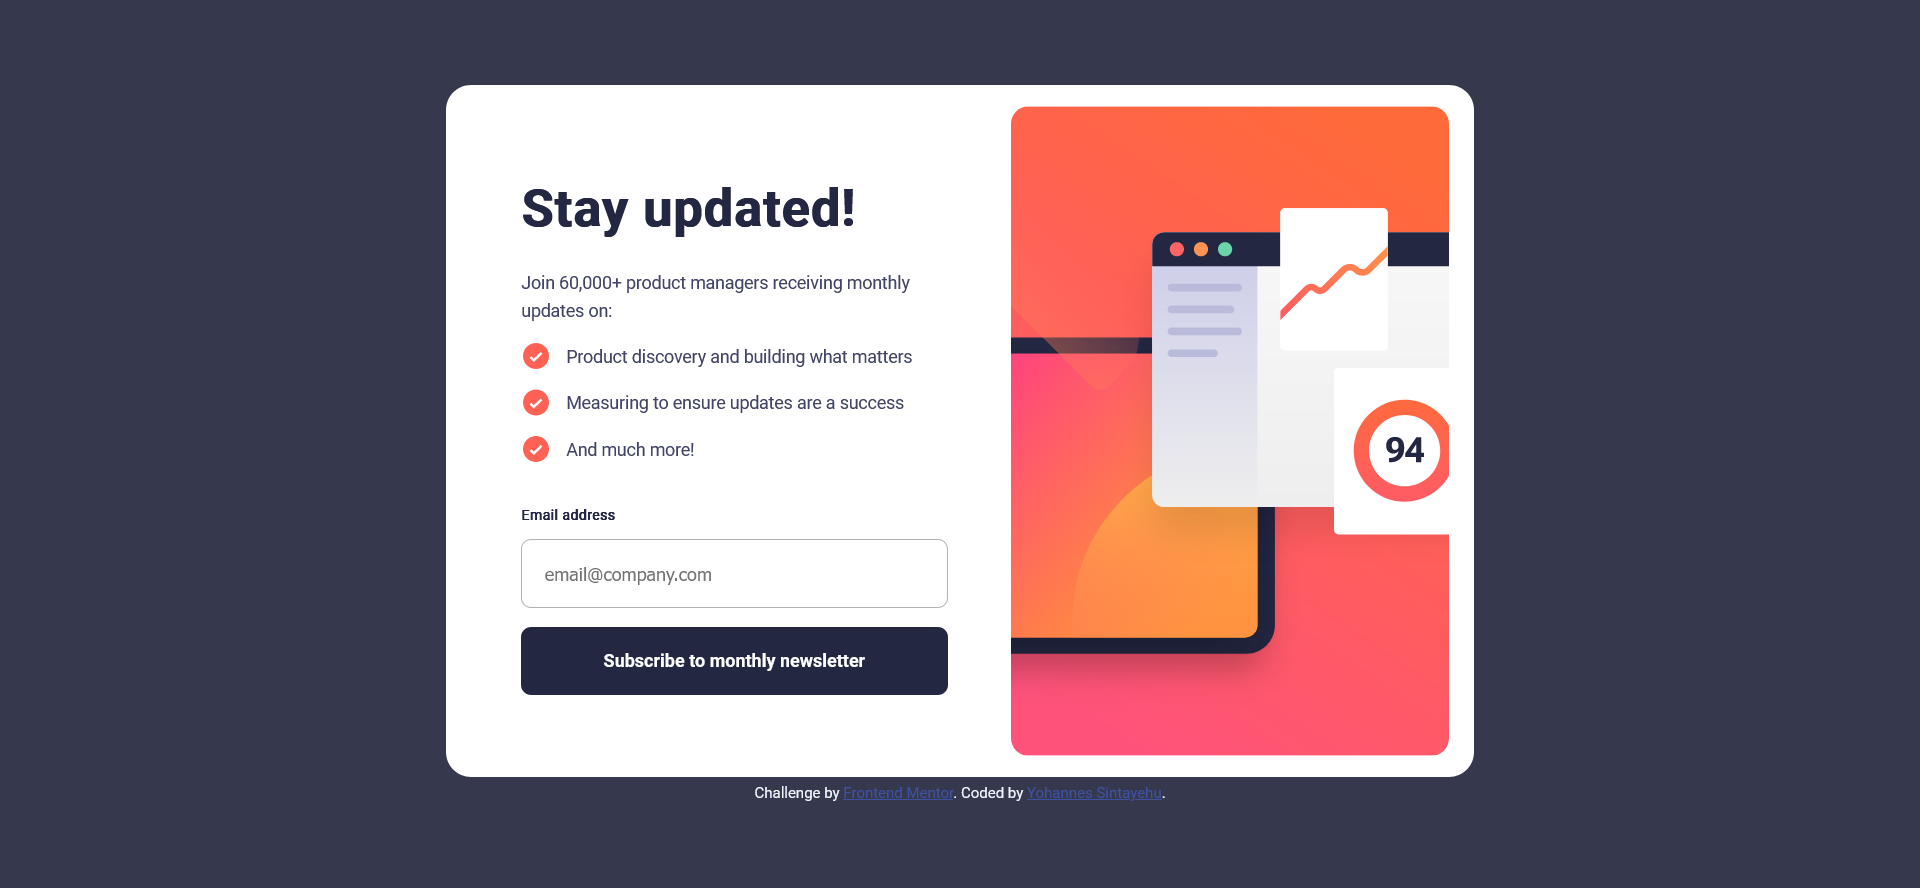
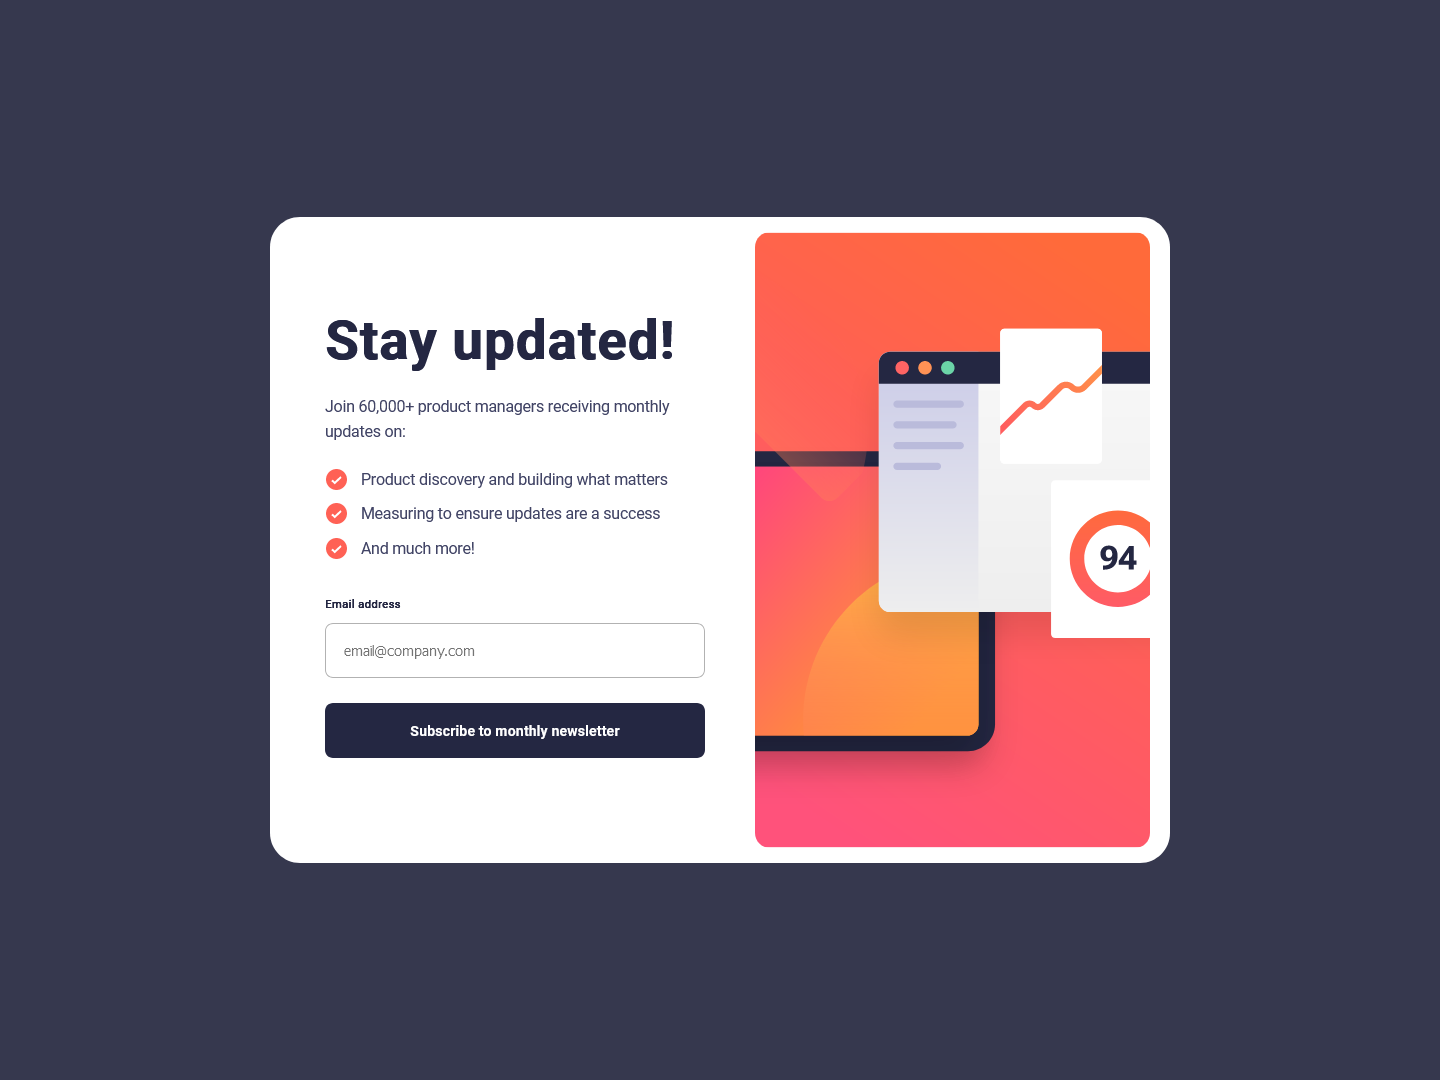
Final Commit

Changed region(s): [[0.1875, 0.0912, 0.8125, 0.9122]]

diff --git a/style.css b/style.css
@@ -53,7 +53,7 @@ section {
   padding: 20px;
 }
 
-#d h1 {
+h1 {
   margin-top: 10px;
   font-size: 2.4rem;
 }
@@ -201,6 +201,7 @@ section button {
     max-height: 580px;
     max-width: 726px;
     padding: 15px 20px;
+    border-radius: 30px;
   }
 
   #mobile-img {
@@ -219,7 +220,7 @@ section button {
     flex-basis: 50%;
   }
 
-  main h1 {
+  h1 {
     font-size: 2.6rem;
   }
 
@@ -240,11 +241,46 @@ section button {
     padding: 50px 10px 50px 40px;
   }
 
-  main p {
-    margin: 15px 0;
+  p {
+    margin-top: 10px;
+    margin-bottom: 25px;
   }
 
   ul {
     margin-bottom: 28px;
+  }
+}
+
+@media (min-width: 992px) {
+  main {
+    line-height: 1.6;
+    max-width: 900px;
+    max-height: 650px;
+  }
+
+  .text {
+    padding: 40px 15px 75px 35px;
+    margin: 15px 0;
+    font-size: 0.97rem;
+  }
+
+  h1 {
+    font-size: 3.4rem;
+  }
+
+  input {
+    margin-bottom: 25px;
+  }
+
+  #desktop-img {
+    max-width: 395px;
+    max-height: 640px;
+    object-fit: cover;
+    border-radius: 15px;
+  }
+
+  ul {
+    margin-bottom: 32px;
+    line-height: 1.2;
   }
 }

diff --git a/README.md b/README.md
@@ -36,17 +36,17 @@ Users should be able to:
 
 ![](./assets/images/Screenshot%20of%20Frontend%20Mentor%20Newsletter%20sign-up%20form%20-%20Desktop%20version.png)
 
-- Desktop Solution SignUp form empty input error state -
-
-![](./assets/images/Screenshot%20of%20sign-up%20form%20empty%20input%20error%20state%20-%20Desktop%20version.png)
-
-- Desktop Solution SignUp form incorrect formatting error state -
-
-![](./assets/images/Screenshot%20of%20sign-up%20form%20incorrect%20formatting%20error%20state%20-%20Desktop%20version.png)
-
 - Desktop Solution SignUp form success state -
 
 ![](./assets/images/Screenshot%20of%20Frontend%20Mentor%20Newsletter%20sign-up%20success%20page%20-%20Desktop%20version.png)
+
+- Mobile Solution SignUp form -
+
+![](./assets/images/Screenshot%20of%20Frontend%20Mentor%20Newsletter%20sign-up%20form%20-%20Mobile%20version.png)
+
+- Mobile Solution SignUp form success state -
+
+![](./assets/images/Screenshot%20of%20Frontend%20Mentor%20Newsletter%20sign-up%20success%20page%20-%20Mobile%20version.png)
 
 ### Links
 
